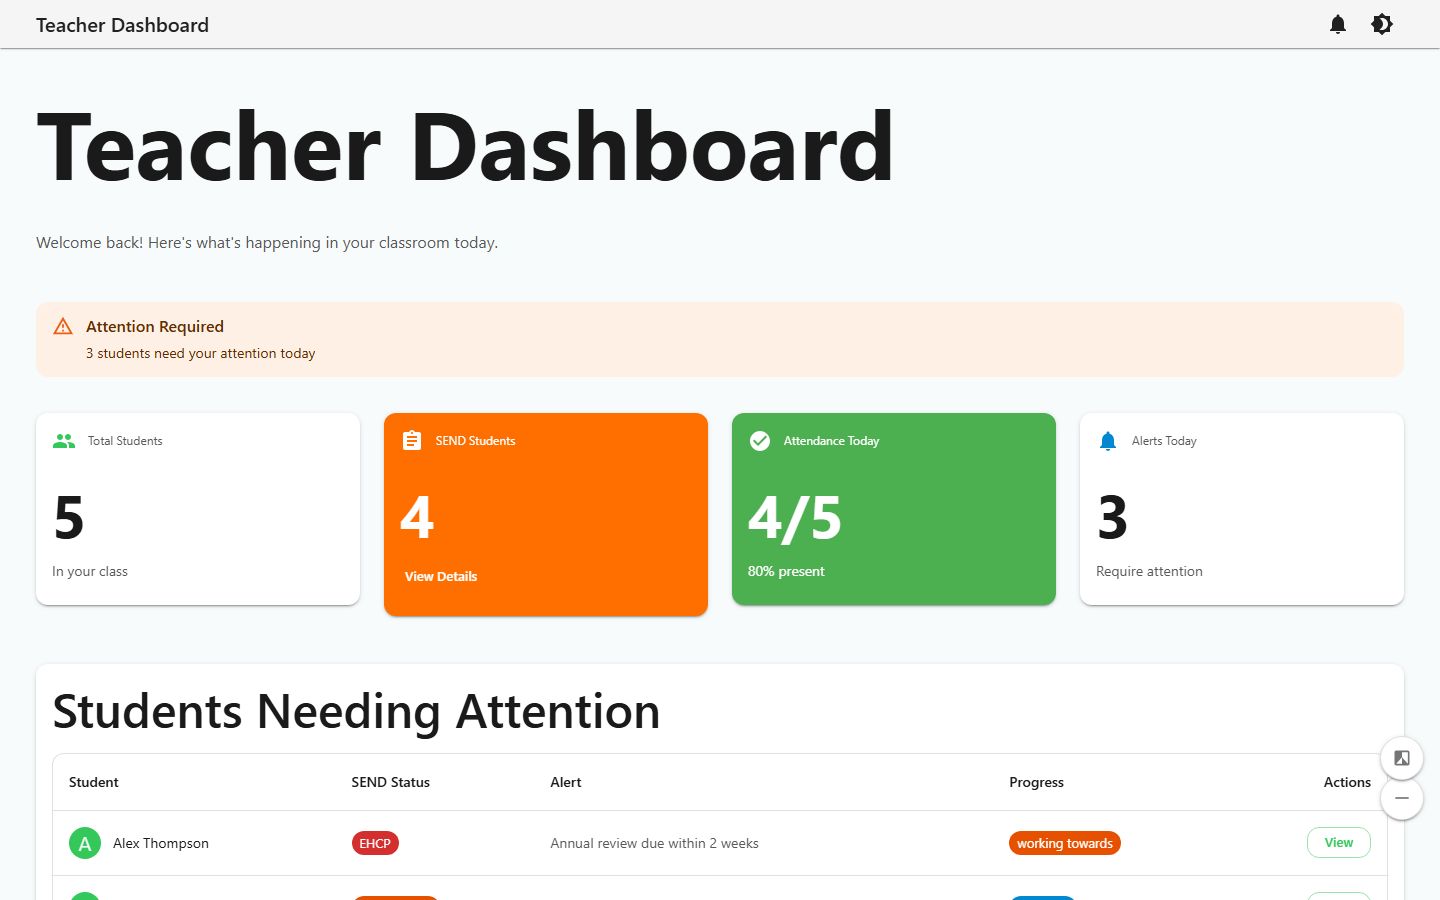
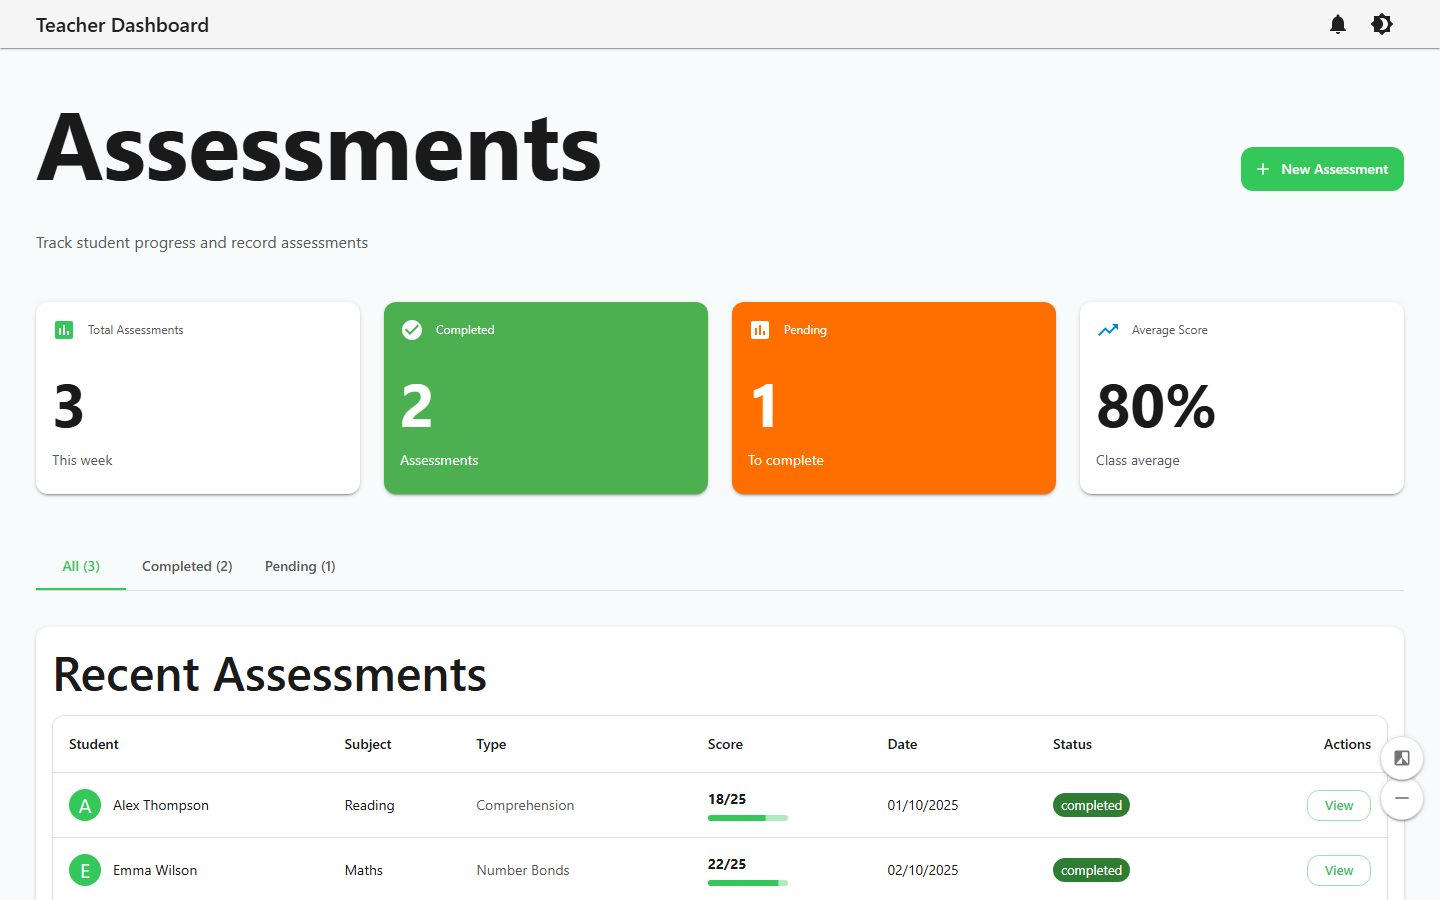
fix(teacher): correct assessments screenshot, add new lesson plan page
- Teacher Assessments now shows actual /teacher/assessments page
  (was incorrectly showing the dashboard)
- Added Teacher New Lesson screenshot (/teacher/lessons/new)
  showing the differentiated lesson plan builder with SEND adaptations

diff --git a/index.html b/index.html
@@ -1158,6 +1158,7 @@ const slides = [
       "Lesson Plans — differentiated with SEND adaptations",
       "Assessments — recording and tracking",
       "Lessons — planning with SEND context",
+      "New Lesson Plan — differentiated lesson builder",
       "My Classroom — full class overview",
       "Student Overview — individual child detail",
       "Student Support Strategies — active interventions",
@@ -1168,6 +1169,7 @@ const slides = [
       "All your parent and SENCO messages in one place — linked to the child they’re about. No more digging through email.",
       "Record assessments tied to the student and their SEND context. The SENCO sees them automatically — no separate reporting.",
       "Plan lessons with support strategies visible. Know which students need adjustments before you start teaching.",
+      "Build a new lesson from scratch with SEND adaptations suggested automatically. Learning objectives, resources, and differentiation in one form.",
       "Every student, their SEND status, attendance, progress — the daily operational view every class teacher needs.",
       "Drill into one student: their SEND status, active interventions, assessment history, and parent communications. Everything in one view.",
       "See exactly what support strategies are in place for this student — what’s working, what’s been tried, what’s next.",
@@ -1178,12 +1180,13 @@ const slides = [
       "Messages you send to parents appear in their parent portal. Messages from the SENCO appear here. One thread, multiple portals.",
       "Assessments you record here feed into the SENCO’s graduated approach tracker and appear in the parent portal’s progress view.",
       "SEND adjustment data comes from the SENCO portal. When they update a student’s support plan, it shows in your lesson planning view.",
+      "Common SEND strategies are pre-loaded from the SENCO portal. The lesson planner suggests adaptations based on which students are in the class.",
       "Attendance data comes from the school portal. SEND status comes from the SENCO portal. Your classroom view combines both.",
       "This student view pulls data from the SENCO portal (support plans), the parent portal (home observations), and the school portal (attendance and behaviour).",
       "Support strategies are managed in the SENCO portal’s graduated approach tracker. When the SENCO updates them, you see the changes here.",
       "Parent messages flow between this portal and the parent portal. Both sides see the same conversation, linked to the same child."
     ],
-    images:["Teacher Dashboard.png","Teacher Communication.png","Teacher Assessments .png","Teacher Lessons.png","Teacher My Classroom.png","Teacher My Student.png","Teacher My Student Support Strategies.png","Teacher My Student Communications.png"]
+    images:["Teacher Dashboard.png","Teacher Communication.png","Teacher Assessments .png","Teacher Lessons.png","Teacher New Lesson.png","Teacher My Classroom.png","Teacher My Student.png","Teacher My Student Support Strategies.png","Teacher My Student Communications.png"]
   },
   {
     id:"school",
